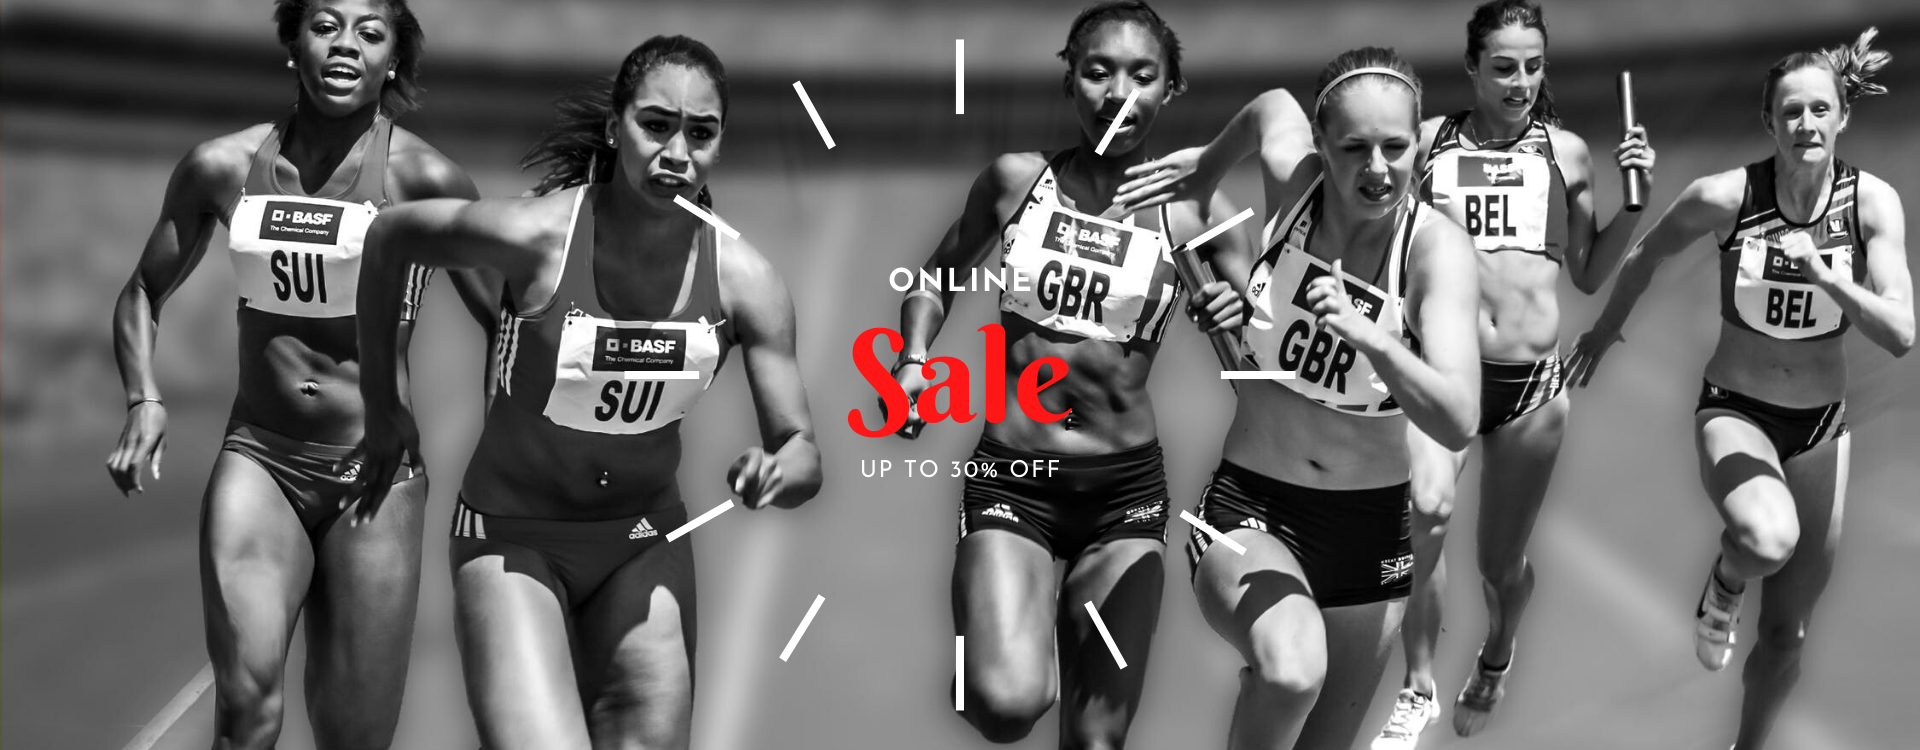
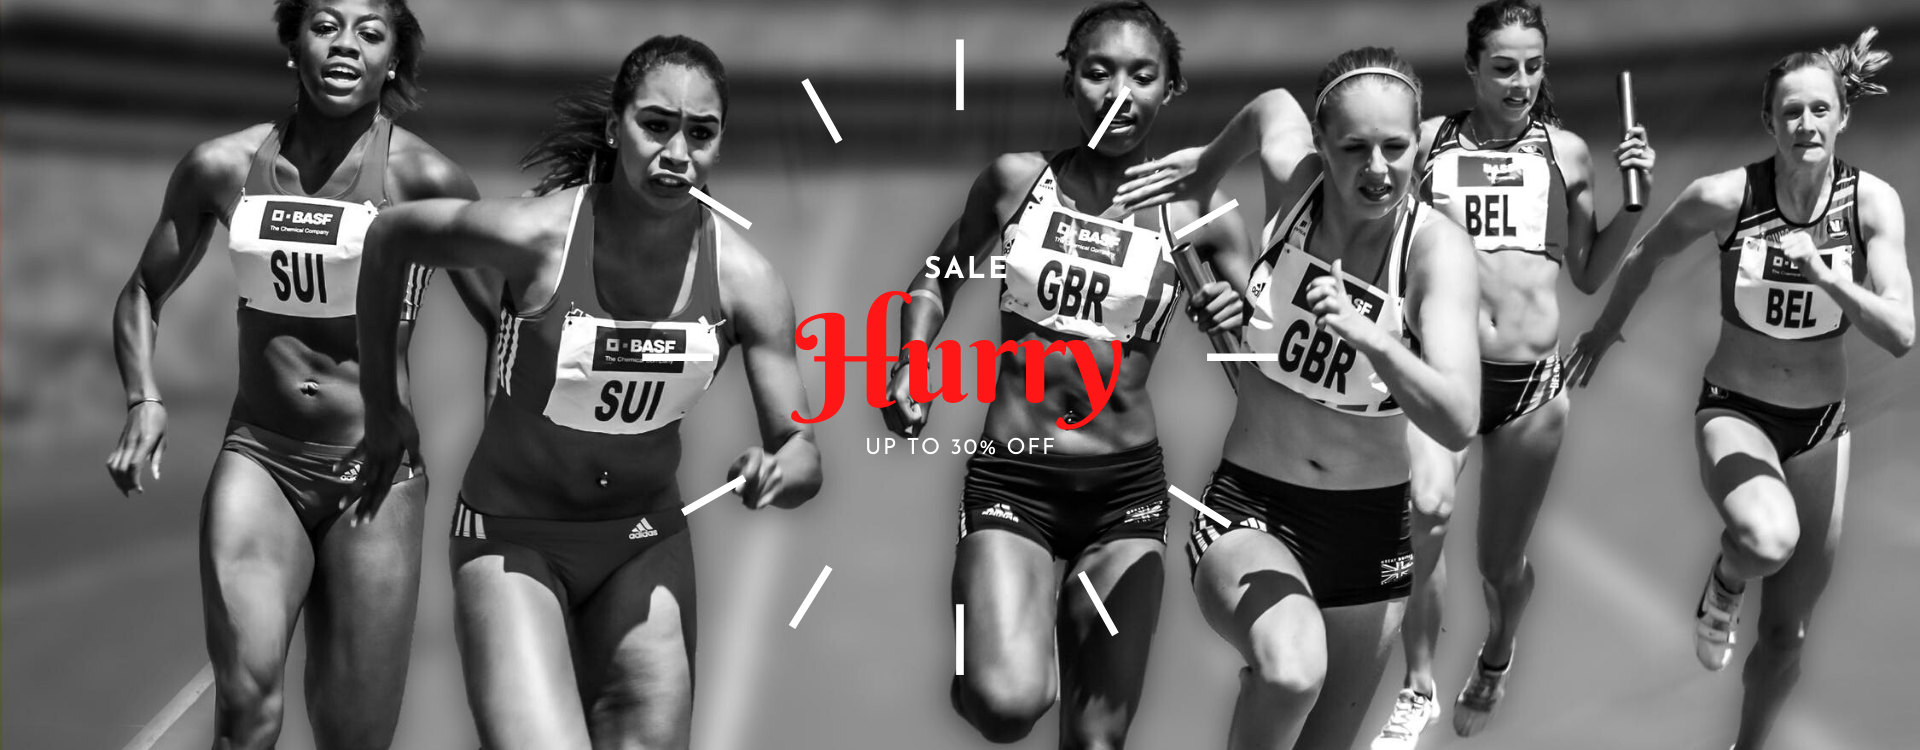
replaced slider photo and added links to product page.

diff --git a/client/src/components/SliderOne.js b/client/src/components/SliderOne.js
@@ -1,6 +1,6 @@
 import React from "react"
 import Carousel from "react-bootstrap/Carousel"
-
+import { Link } from "react-router-dom"
 import "../styles/home.css"
 import "bootstrap/dist/css/bootstrap.min.css"
 
@@ -10,25 +10,31 @@ export default props => {
       <div className="site-slider">
         <Carousel>
           <Carousel.Item>
-            <img
-              className="d-block w-100"
-              src="./assets/item-1.png"
-              alt="First slide"
-            />
+            <Link to="/products">
+              <img
+                className="d-block w-100"
+                src="./assets/item-1.png"
+                alt="First slide"
+              />
+            </Link>
           </Carousel.Item>
           <Carousel.Item>
-            <img
-              className="d-block w-100"
-              src="./assets/item-2.png"
-              alt="Third slide"
-            />
+            <Link to="/products">
+              <img
+                className="d-block w-100"
+                src="./assets/item-2.png"
+                alt="Third slide"
+              />
+            </Link>
           </Carousel.Item>
           <Carousel.Item>
-            <img
-              className="d-block w-100"
-              src="./assets/item-3.png"
-              alt="Third slide"
-            />
+            <Link to="/products">
+              <img
+                className="d-block w-100"
+                src="./assets/item-3.png"
+                alt="Third slide"
+              />
+            </Link>
           </Carousel.Item>
         </Carousel>
       </div>
